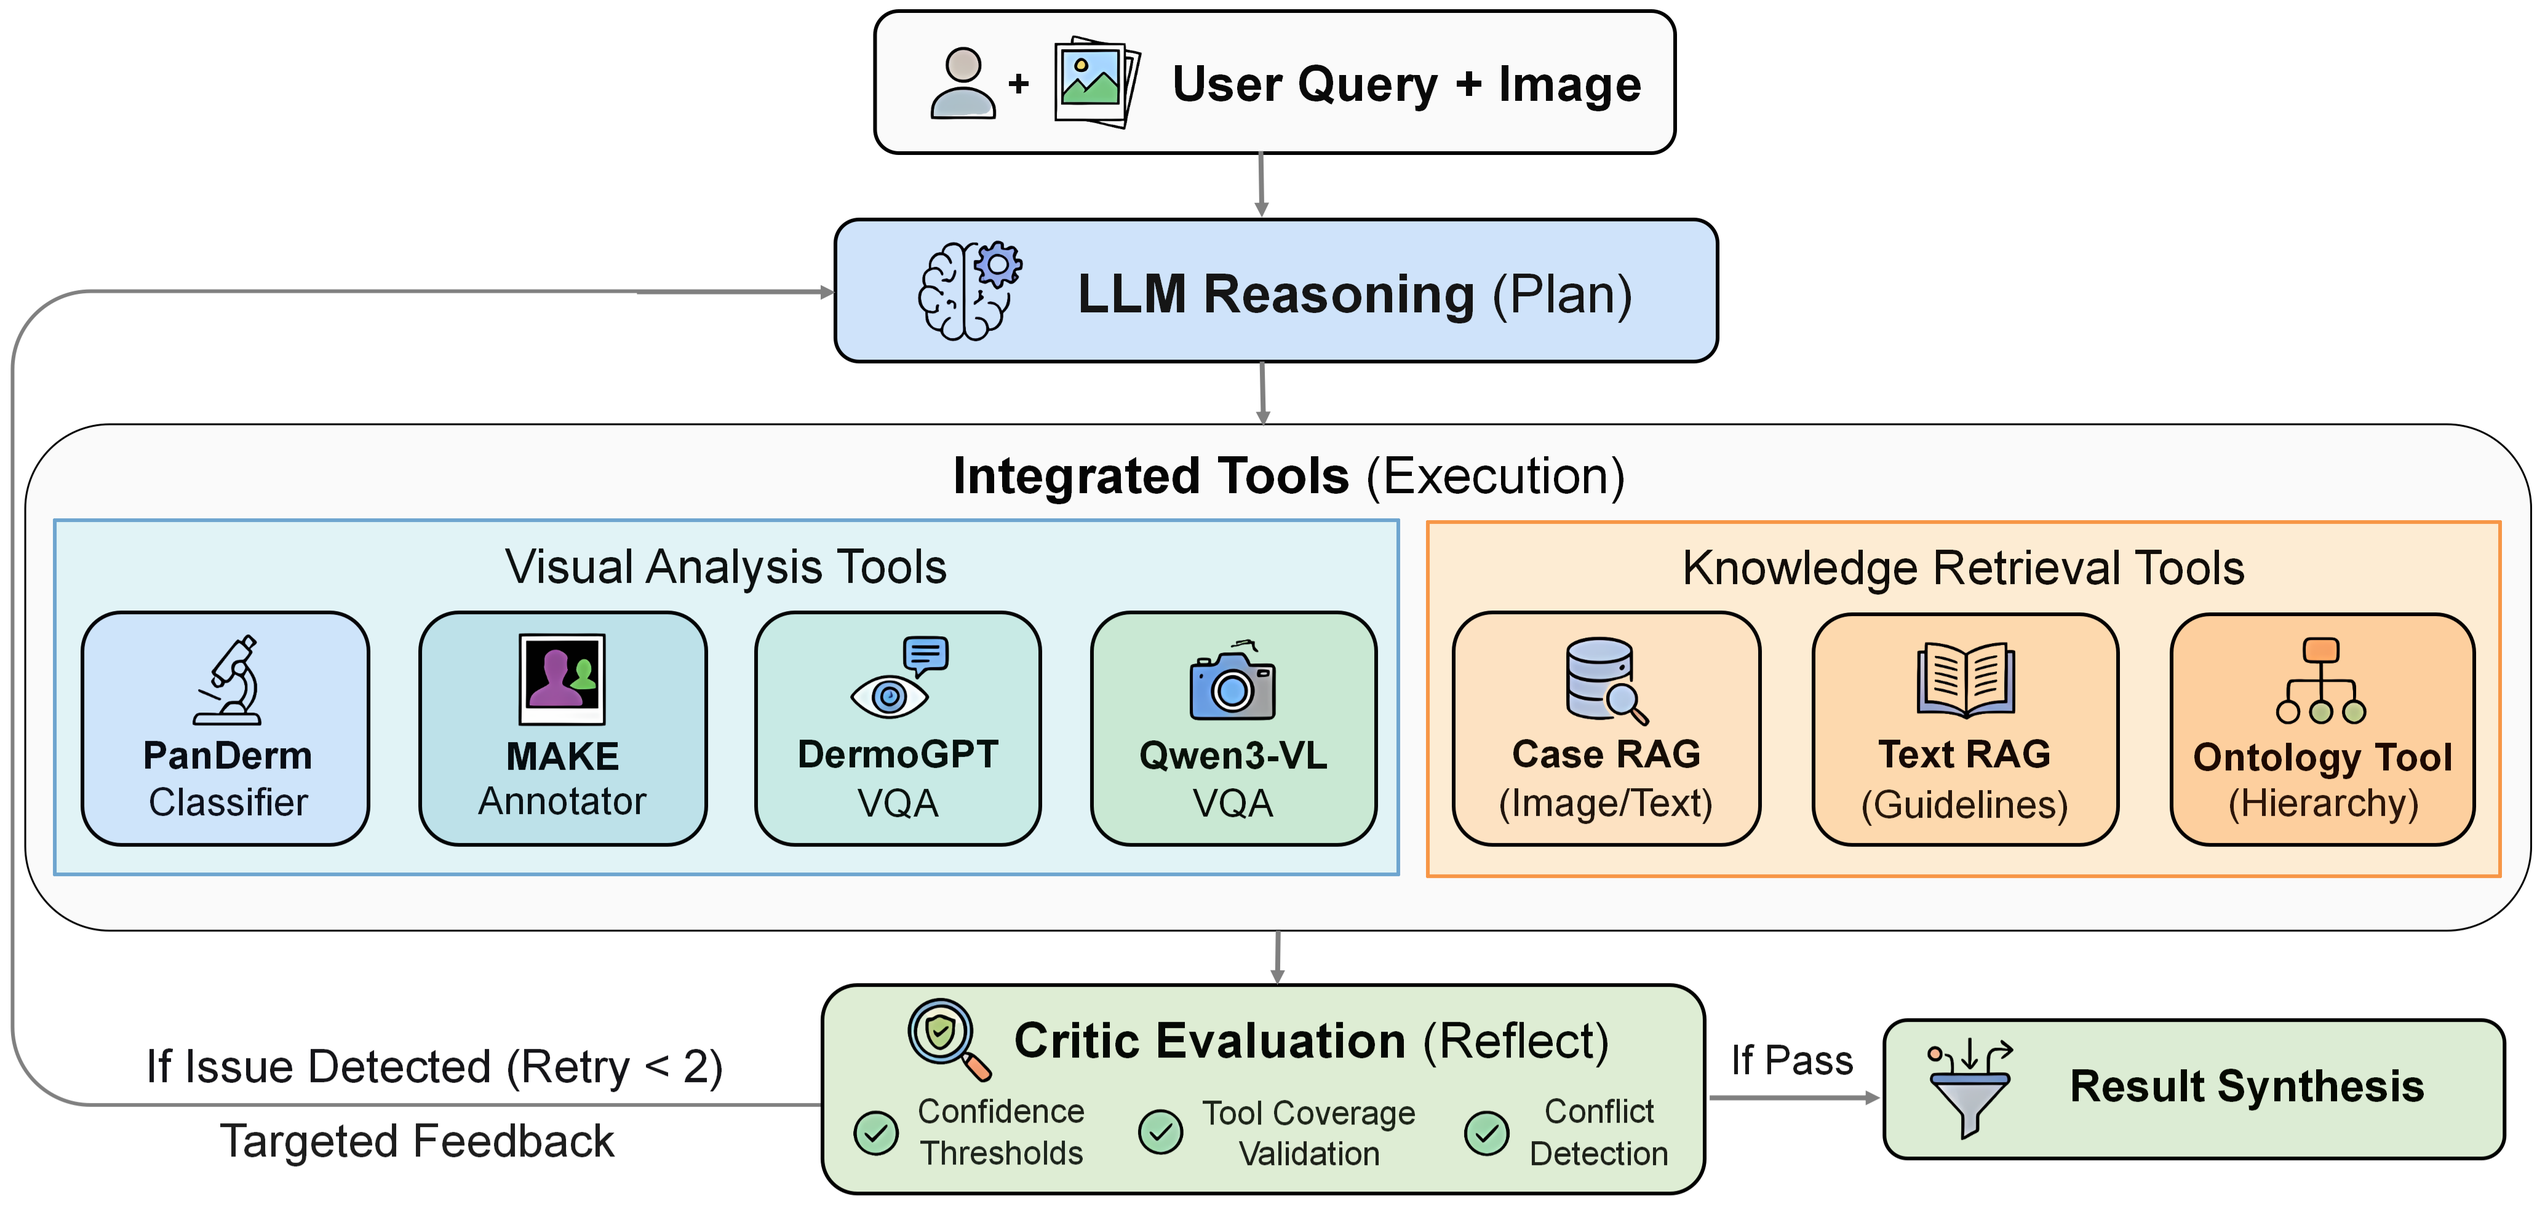
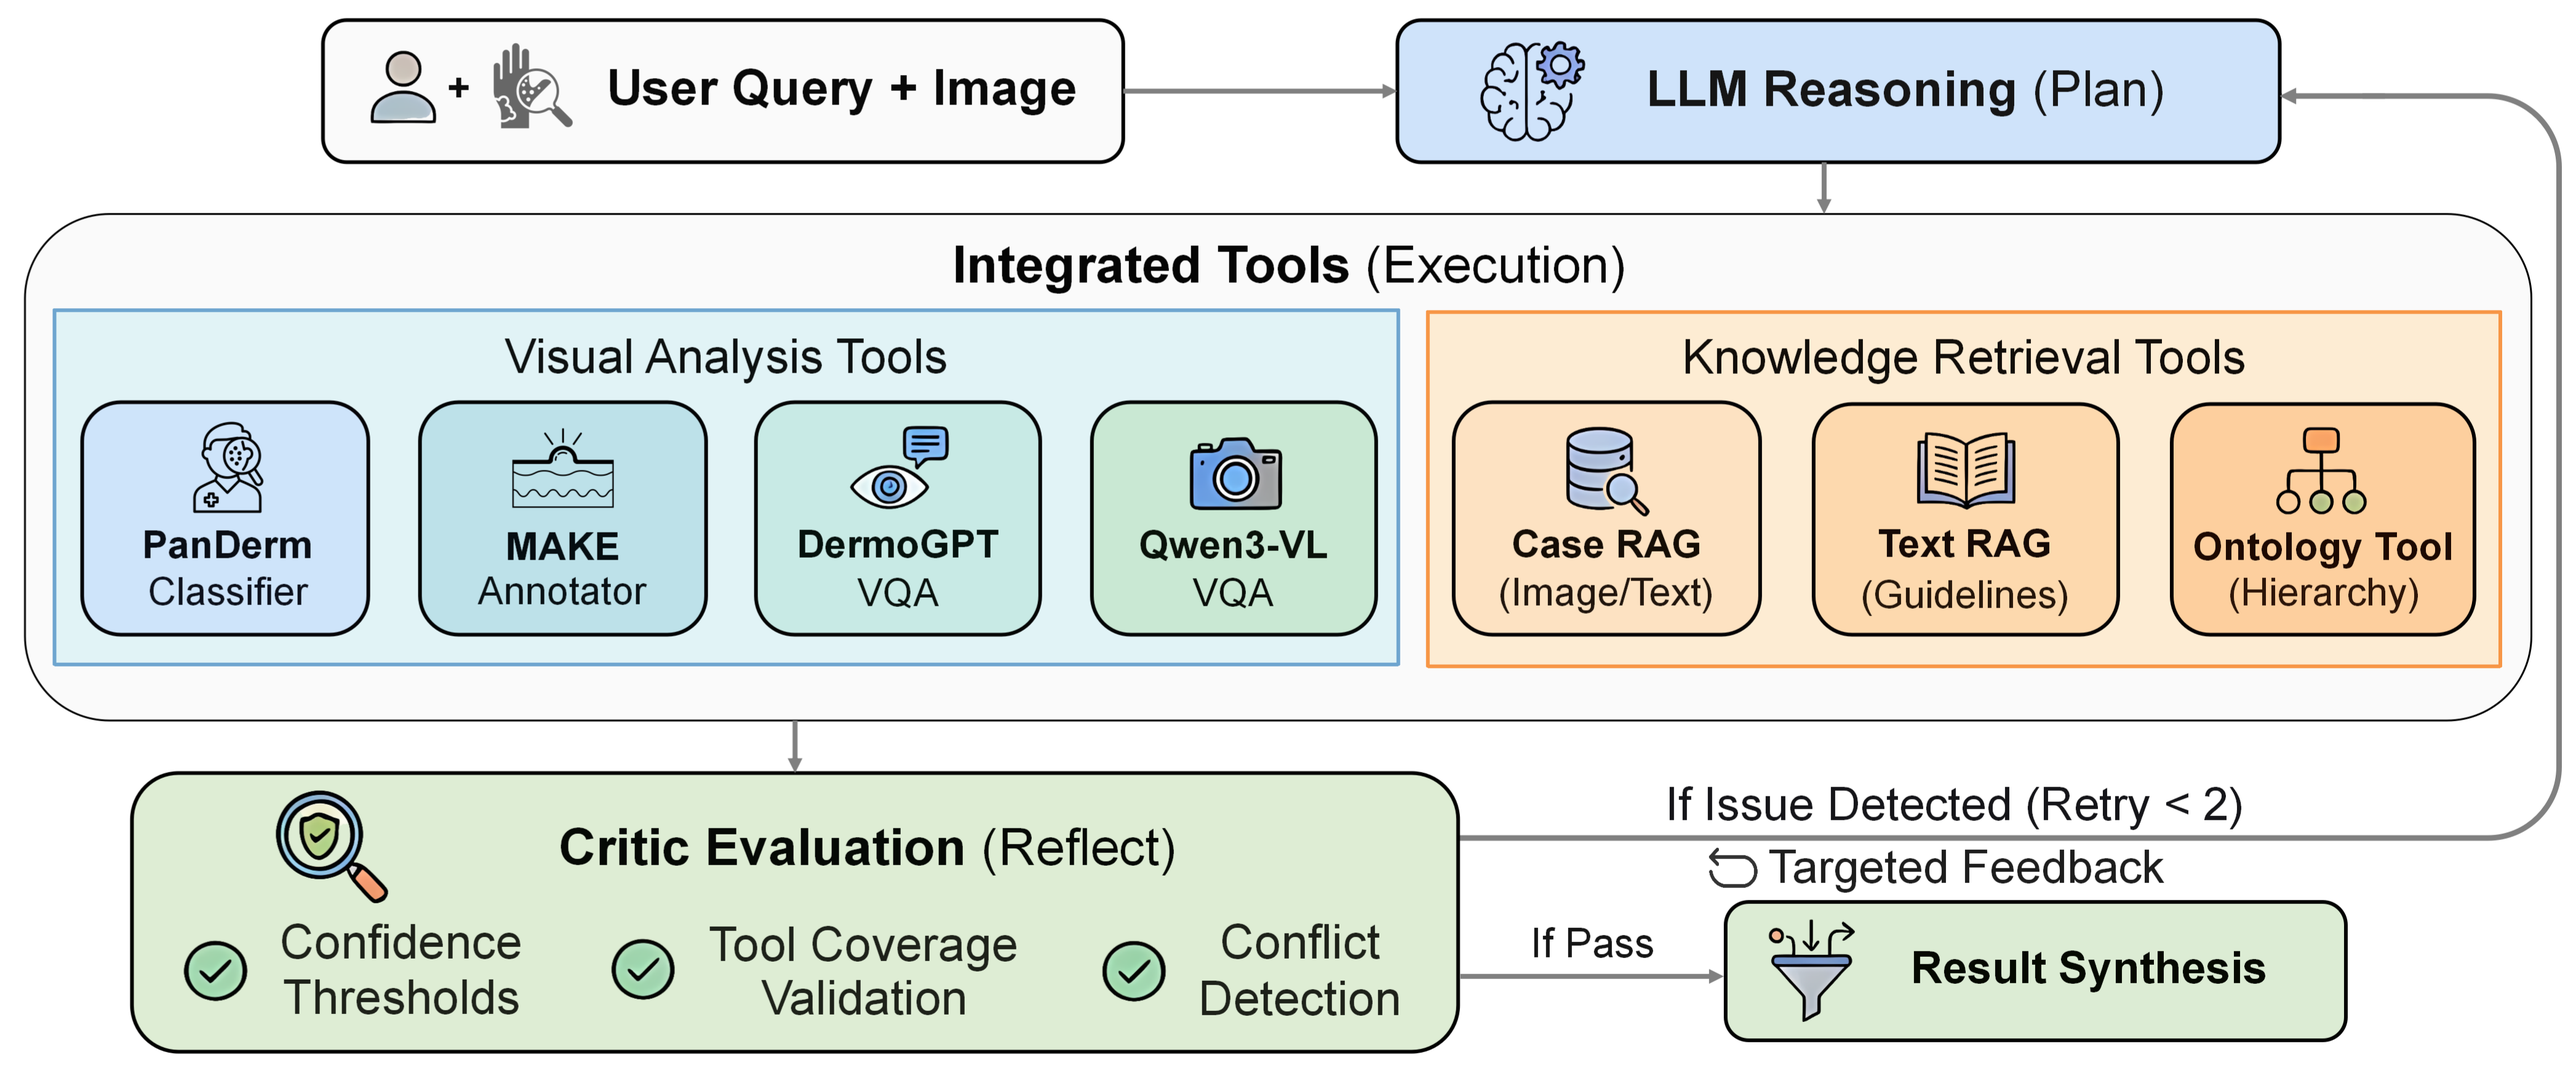
Update paper title, framework diagram, and README description

diff --git a/README.md b/README.md
@@ -1,8 +1,8 @@
-# DermAgent
+# DermAgent: A Self-Reflective Agentic System for Dermatological Image Analysis with Multi-Tool Reasoning and Traceable Decision-Making
 
-A collaborative multi-tool AI agent for comprehensive dermatological image analysis, built on LangChain/LangGraph.
+A self-reflective agentic system for dermatological image analysis, built on LangChain/LangGraph.
 
-DermAgent orchestrates seven specialist tools (PanDerm, MAKE, DermoGPT, Qwen3-VL, Image RAG, Text RAG, Ontology) via a **Plan-Execute-Reflect** loop, using GPT-4o as the reasoning backbone. A deterministic **Critic** module evaluates evidence chains and triggers self-correction when deficiencies are detected.
+DermAgent orchestrates seven specialist vision and language tools (PanDerm, MAKE, DermoGPT, Qwen3-VL, Case RAG, Guideline RAG, Ontology) within a **Plan-Execute-Reflect** framework, using GPT-4o as the reasoning backbone. A deterministic **Critic** module performs post-hoc auditing via confidence, coverage, and conflict gates to trigger targeted self-correction, delivering stepwise, traceable diagnostic reasoning.
 
 ## Architecture
 
@@ -226,7 +226,7 @@ The full agent result (w/ Critic, ROUGE-L: 0.1948) is produced by the Task 3 por
 
 ```bibtex
 @inproceedings{dermagent2026,
-  title={DermAgent: A Collaborative Agent for Comprehensive Dermatological Image Analysis},
+  title={DermAgent: A Self-Reflective Agentic System for Dermatological Image Analysis with Multi-Tool Reasoning and Traceable Decision-Making},
   author={Anonymous},
   booktitle={MICCAI},
   year={2026}
